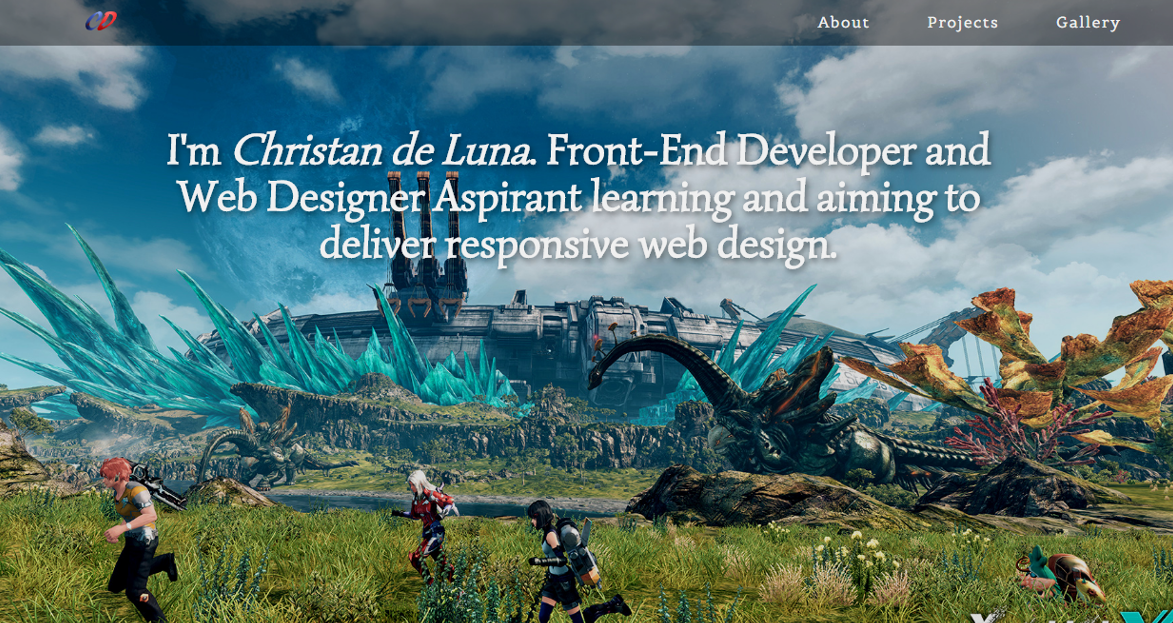
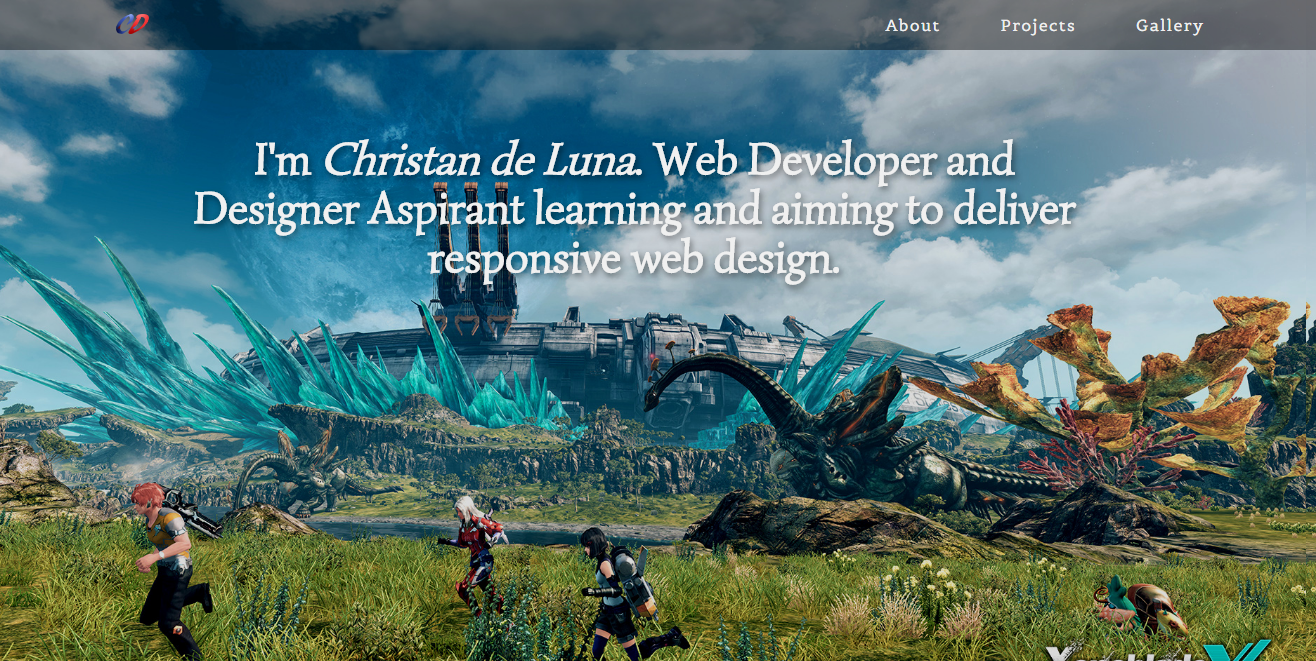
Small adjustments to text and footer alignment

diff --git a/index.html b/index.html
@@ -6,10 +6,10 @@
 		<meta http-equiv="X-UA-Compatible" content="IE=edge">
 		<meta name="viewport" content="width=device-width, initial-scale=1.0">
 		<!-- Details -->
+		<meta name="author" property="og:author" content="Christan de Luna">
 		<meta name="description" property="og:description" content="Portfolio of Christan de Luna.">
     <meta name="keywords" property="og:keywords" content="HTML,CSS,JavaScript">
-    <meta name="author" property="og:author" content="Christan de Luna">
-    <title>Christan de Luna • Front-End &amp; Web Designer Aspirant</title>
+    <title>Christan de Luna • Web Developer &amp; Designer Aspirant</title>
     <!-- Links and scripts -->
 		<link rel="shortcut icon" type="image/png" href="images/favicon.png" />
 		<link type="text/css" rel="stylesheet" href="css/bootstrap.css" />
@@ -80,13 +80,13 @@
         <img class="page-two-img" src="images/cheeb.jpg">
         <div class="page-two-block">
           <div class="page-two-para">
-            <p>Hi, I'm Christan! Or preferably Christian, with the letter I. I also go by <em>Cheeb</em>, <em>ChibiIceClimberz</em>, or
-            <em>Ch33bDragonite</em> if you know me online! Just look me up! :D<br><br>
-            I'm currently in my fourth year at Georgia Gwinnett College studying Information Technology with an emphasis in Software Development. 
-            Right now, I'm seeking internships that'll help me sharpen my knowledge, skills, and abilities in the field of front-end development
-            and web design. I want to learn and the best coding practices and standards available, as well as give myself exposure to a professional 
+            <p>Hi, I&#39;m Christan! Or preferably Christian, with the letter I. I also go by <em>Cheeb</em>, <em>ChibiIceClimberz</em>, or
+            <em>Ch33bDragonite</em> if you know me online! Just look me up!<br><br>
+            I&#39;m currently in my fourth year at Georgia Gwinnett College studying Information Technology with an emphasis in Software Development. 
+            Right now, I'm seeking internships that&#39;ll help me sharpen my knowledge, skills, and abilities in the field of web development
+            and design. I want to learn and the best coding practices and standards available, as well as give myself exposure to a professional 
             environment.<br><br>
-            When I'm not coding, I draw, watch YouTube videos, play video games, and work out!</p>
+            When I&#39;m not coding, I watch YouTube videos, draw, play video games, and work out!</p>
           </div>
         </div>
       </div>
@@ -106,7 +106,7 @@
               <div class="project-desc">
                 <a href="https://cdeluna95.github.io">cdeluna95.github.io</a><br><br>
                 <p><strong>Technologies</strong>: HTML, CSS, Bootstrap<br><br>
-                My personal website. What else is there to say?</p>
+                Constantly updating this website as I experiment with different web designs. Ya.</p>
               </div>
             </div>
           </div>
@@ -151,7 +151,8 @@
               <div class="project-desc">
                 <a href="https://cdelunavisualapp.herokuapp.com">cdelunavisualapp.herokuapp.com</a><br><br>
                 <p><strong>Technologies</strong>: Ruby on Rails, HTML, CSS, JavaScript (jQuery), Bootstrap<br><br>
-                Upload your favorite drawing—or any image really—and rate them!</p>
+                Upload your favorite drawing—or any image really—and rate them! Do note that Heroku is quite iffy with the styling
+                and image displays.</p>
               </div>
             </div>
           </div>

diff --git a/style.css b/style.css
@@ -205,7 +205,7 @@ p {
   color: #5e5e5e;
   font-size: 20px;
 	font-weight: bold;
-	padding-top: 1em;
+	padding-top: 1.2em;
 }
 
 /* Media queries */
